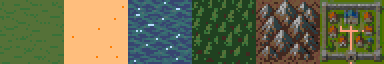
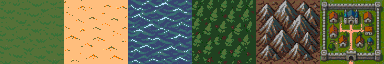
finally some good tiles!

diff --git a/tests/test_graphics.py b/tests/test_graphics.py
@@ -76,7 +76,7 @@ class GraphicsCacheTests(unittest.TestCase):
                     sheet.get_size(),
                     (grid[0] * cell_size[0], grid[1] * cell_size[1]),
                 )
-                self.assertEqual(audit_surface(sheet, 2, alpha), [])
+                self.assertEqual(audit_surface(sheet, 1, alpha), [])
 
     def test_cache_has_expected_surface_sizes(self):
         cache = graphics.build_cache()

diff --git a/STYLE_GUIDE.md b/STYLE_GUIDE.md
@@ -29,11 +29,11 @@
 - tiles/overworld-simple-vga.png: 6x1 opaque 64px cells containing grass,
   sand, water, forest, mountain, and town in that order. Overworld scenery is
   drawn as ordinary single-cell tiles without large overlays.
-- sprites/exploration-vga.png: 4x1 transparent 64px player cells ordered up,
-  down, left, right.
-- VGA pilot artwork is authored on the 32px logical grid and committed at 2x
-  size with nearest-neighbor pixels. Every source pixel remains a uniform 2x2
-  block.
+- sprites/exploration-vga.png: 4x1 transparent native 64px player cells
+  ordered up, down, left, right.
+- Active VGA overworld artwork is authored and committed directly at 64x64.
+  It is not enlarged from a smaller logical grid; retain crisp, blocky pixel
+  clusters through palette reduction and nearest-neighbor presentation.
 - tiles/overworld.png: 8x6 64px cells: 4 grass, 4 sand, 16 shoreline,
   8 forest, 8 mountain, and landmarks/spares.
 - tiles/town.png: 5x5 64px cells with 16 wall masks, plaza, gate, and six
